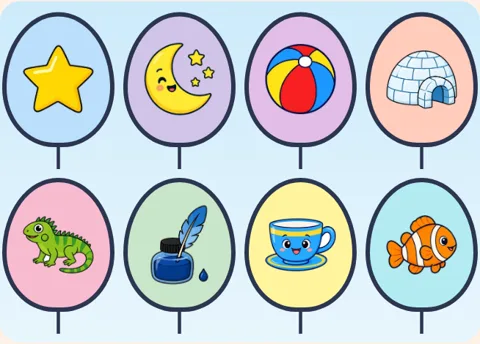
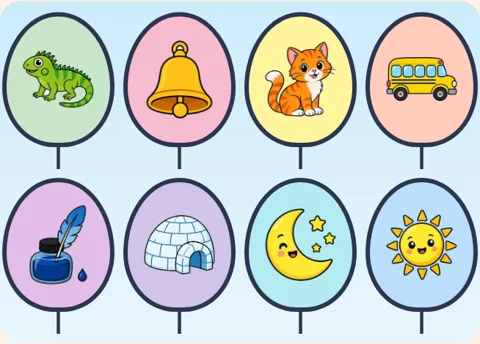
Games H/I/J: fixes from independent review (touch drag, bigger tap areas, no pen/fish, J without jeans, focus, opaque win card)
Claude-Session: https://claude.ai/code/session_01M3FAoMBg53TjgTeL4oEFnR

diff --git a/play/jam-jar-memory/index.html b/play/jam-jar-memory/index.html
@@ -4,7 +4,7 @@
   <meta charset="UTF-8">
   <meta name="viewport" content="width=device-width, initial-scale=1">
   <title>Jam Jar Memory: Letter J Game for Kids | VidyaPlay</title>
-  <meta name="description" content="Free online letter J memory game for LKG kids: turn the jar lids and match jam, jellyfish, jet and jeans. Works on phones, no sign-up. Print the worksheet too.">
+  <meta name="description" content="Free online letter J memory game for LKG kids: turn the jar lids and match jam, jellyfish and jet. Works on phones, no sign-up. Print the worksheet too.">
 
   <link rel="icon" href="../../favicon.ico" sizes="any">
   <link rel="icon" type="image/png" href="../../vidyaplay-icon-512.png">
@@ -19,7 +19,7 @@
   <meta property="og:type" content="website">
   <meta property="og:site_name" content="VidyaPlay">
   <meta property="og:title" content="Jam Jar Memory: Letter J Game for Kids | VidyaPlay">
-  <meta property="og:description" content="Free online letter J memory game for LKG kids: turn the jar lids and match jam, jellyfish, jet and jeans. Works on phones, no sign-up. Print the worksheet too.">
+  <meta property="og:description" content="Free online letter J memory game for LKG kids: turn the jar lids and match jam, jellyfish and jet. Works on phones, no sign-up. Print the worksheet too.">
   <meta property="og:url" content="https://vidyaplay.in/play/jam-jar-memory/">
   <meta property="og:image" content="https://vidyaplay.in/images/og-vidyaplay.jpg">
   <meta property="og:image:width" content="1200">
@@ -35,7 +35,7 @@
     .game-ask { margin: 0; font-size: 20px; font-weight: 800; color: var(--navy); text-align: left; line-height: 1.2; }
     .sound-btn { flex: none; width: 48px; height: 48px; border: 0; border-radius: 14px; background: #FFFFFF; font-size: 22px; cursor: pointer; }
     .meadow { display: block; width: 100%; height: auto; touch-action: manipulation; }
-    .grid { display: grid; grid-template-columns: repeat(4, 1fr); gap: 8px; padding: 8px 2px 8px; perspective: 700px; }
+    .grid { display: grid; grid-template-columns: repeat(3, 1fr); gap: 12px; padding: 8px 6px 8px; perspective: 700px; }
     .card-btn { position: relative; width: 100%; aspect-ratio: 3 / 4; border: 0; padding: 0; background: none; cursor: pointer; -webkit-tap-highlight-color: transparent; }
     .card-in { position: absolute; inset: 0; transition: transform 0.45s; transform-style: preserve-3d; }
     .card-btn.open .card-in, .card-btn.matched .card-in { transform: rotateY(180deg); }
@@ -43,10 +43,10 @@
       display: flex; flex-direction: column; align-items: center; justify-content: center; gap: 2px; }
     .face.back { background: #FB8C00; }
     .face.back::before { content: ""; position: absolute; top: -4px; left: 14%; right: 14%; height: 14px; border-radius: 6px 6px 0 0; background: #8A3B00; border: 3px solid #2C3550; border-bottom: 0; }
-    .face.back span { font-size: 40px; font-weight: 800; color: #FFFFFF; line-height: 1; }
+    .face.back span { font-size: 52px; font-weight: 800; color: #FFFFFF; line-height: 1; }
     .face.front { background: #FFFFFF; transform: rotateY(180deg); }
     .face.front img { width: 74%; height: 58%; object-fit: contain; }
-    .face.front b { font-size: 15px; color: var(--navy); }
+    .face.front b { font-size: 17px; color: var(--navy); }
     .card-btn.matched .face.front { background: #DFF5DC; border-color: #2E9B4F; }
     .card-btn:focus-visible .face { border-color: var(--blue); }
     .card-btn.matched { pointer-events: none; }
@@ -145,12 +145,12 @@
       <div class="grid" id="grid"></div>
       <div class="score">
         <div class="basket" id="basket" aria-hidden="true"></div>
-        <p class="score-text" id="score" aria-live="polite">0 of 4 pairs</p>
+        <p class="score-text" id="score" aria-live="polite">0 of 3 pairs</p>
       </div>
       <div class="win" id="win" hidden>
         <div class="win-icons" aria-hidden="true">🍓🎉🍓</div>
         <p class="win-big">All pairs found!</p>
-        <p class="win-text">jam, jellyfish, jet, jeans: all start with j.</p>
+        <p class="win-text">jam, jellyfish, jet: all start with j.</p>
         <button class="button btn-play" id="again" type="button">Play again</button>
       </div>
     </section>
@@ -175,7 +175,7 @@
 
   <script>
   (function () {
-    var WORDS = ["jam", "jellyfish", "jet", "jeans"];
+    var WORDS = ["jam", "jellyfish", "jet"];
     var grid = document.getElementById("grid"), basket = document.getElementById("basket"), scoreText = document.getElementById("score"), win = document.getElementById("win");
     var open = [], matched = 0, lock = false;
 
@@ -254,7 +254,7 @@
       WORDS.forEach(function () { basket.appendChild(document.createElement("span")); });
       win.hidden = true; update();
     }
-    document.getElementById("again").addEventListener("click", newRound);
+    document.getElementById("again").addEventListener("click", function () { newRound(); grid.firstChild.focus(); });
     newRound();
   })();
   </script>

diff --git a/play/catch-the-i-words/index.html b/play/catch-the-i-words/index.html
@@ -43,7 +43,8 @@
     .balloon img { width: 68%; height: 62%; object-fit: contain; pointer-events: none; }
     .balloon .string { position: absolute; left: 50%; bottom: 0; width: 3px; height: 14%; background: #2C3550; transform: translateX(-50%); }
     .balloon:focus-visible .body { border-color: var(--blue); border-width: 6px; }
-    .balloon.nope { animation: wiggle 0.45s ease-in-out; }
+    .balloon.nope { animation: wiggle 0.45s ease-in-out, bob 3s ease-in-out infinite; }
+    .heard { margin: 6px 0 0; min-height: 30px; font-size: 24px; font-weight: 800; color: var(--navy); }
     .balloon.popped { animation: poof 0.5s ease-out forwards; pointer-events: none; }
     @keyframes bob { 0%, 100% { transform: translateY(0); } 50% { transform: translateY(-6px); } }
     @keyframes wiggle { 0%, 100% { transform: rotate(0); } 20% { transform: rotate(-9deg); } 40% { transform: rotate(8deg); } 60% { transform: rotate(-5deg); } 80% { transform: rotate(3deg); } }
@@ -140,6 +141,7 @@
         <button class="sound-btn" id="sound" type="button" aria-pressed="true" aria-label="Sound on">🔊</button>
       </div>
       <div class="grid" id="grid"></div>
+      <p class="heard" id="heard" aria-hidden="true">&nbsp;</p>
       <div class="score">
         <div class="basket" id="basket" aria-hidden="true"></div>
         <p class="score-text" id="score" aria-live="polite">0 of 3 found</p>
@@ -173,10 +175,10 @@
   <script>
   (function () {
     var TARGETS = [["igloo", "igloo"], ["iguana", "iguana"], ["ink", "ink"]];
-    var OTHERS = [["ball", "ball"], ["cat", "cat"], ["dog", "dog"], ["hat", "hat"], ["cup", "cup"], ["pen", "pen"], ["bus", "bus"], ["fish", "fish"], ["star", "star"], ["cow", "cow"], ["moon", "moon"]];
+    var OTHERS = [["ball", "ball"], ["cat", "cat"], ["dog", "dog"], ["hat", "hat"], ["cup", "cup"], ["bus", "bus"], ["sun", "sun"], ["bell", "bell"], ["star", "star"], ["cow", "cow"], ["moon", "moon"]];
     var COLOURS = ["#F8BBD0", "#BBDEFB", "#FFF59D", "#E1BEE7", "#B2EBF2", "#FFCCBC", "#C8E6C9", "#D1C4E9"];
     var grid = document.getElementById("grid"), basket = document.getElementById("basket"), scoreText = document.getElementById("score"), win = document.getElementById("win");
-    var found = 0;
+    var found = 0, heard = document.getElementById("heard");
 
     var soundBtn = document.getElementById("sound"), soundOn = true, audio = null;
     function tone(freq, endFreq, start, length, volume) {
@@ -233,15 +235,15 @@
         b.querySelector("img").setAttribute("src", p.f + ".webp");
         b.addEventListener("click", function () {
           if (b.classList.contains("popped")) return;
-          say(p.w);
-          if (p.hit) { b.classList.add("popped"); found++; play("pop"); update(); }
+          say(p.w); heard.textContent = p.w;
+          if (p.hit) { b.classList.add("popped"); b.disabled = true; b.setAttribute("aria-hidden", "true"); found++; play("pop"); update(); }
           else { b.classList.remove("nope"); void b.offsetWidth; b.classList.add("nope"); }
         });
         grid.appendChild(b);
       });
       basket.innerHTML = "";
       TARGETS.forEach(function () { basket.appendChild(document.createElement("span")); });
-      found = 0; win.hidden = true; update();
+      found = 0; heard.innerHTML = "&nbsp;"; win.hidden = true; update();
     }
     document.getElementById("again").addEventListener("click", newRound);
     newRound();

diff --git a/play/build-the-house/index.html b/play/build-the-house/index.html
@@ -35,7 +35,7 @@
     .game-ask { margin: 0; font-size: 20px; font-weight: 800; color: var(--navy); text-align: left; line-height: 1.2; }
     .sound-btn { flex: none; width: 48px; height: 48px; border: 0; border-radius: 14px; background: #FFFFFF; font-size: 22px; cursor: pointer; }
     .meadow { display: block; width: 100%; height: auto; touch-action: manipulation; }
-    .house { display: block; width: 100%; height: auto; touch-action: manipulation; user-select: none; -webkit-user-select: none; }
+    .house { display: block; width: 100%; height: auto; max-height: 78vh; touch-action: none; user-select: none; -webkit-user-select: none; }
     .slot * { fill: rgba(255, 255, 255, 0.45); stroke: #9AA3B2; stroke-width: 3; stroke-dasharray: 8 7; }
     .slot text, .slot line, .slot circle[r="4.5"] { display: none; }
     
@@ -51,6 +51,7 @@
       25% { transform: translate(calc(var(--x) - 7px), var(--y)) scale(var(--s)); }
       75% { transform: translate(calc(var(--x) + 7px), var(--y)) scale(var(--s)); } }
     .tray-bg { fill: #FFFFFF; }
+    .win { background: #FFFFFF !important; }
 
     .score { display: flex; align-items: center; justify-content: center; flex-wrap: wrap; gap: 6px 10px; margin-top: 4px; }
     .basket { display: flex; gap: 4px; }
@@ -305,7 +306,9 @@
       def.draw(it.slot);
       var g = el("g", { "class": "piece", tabindex: 0, role: "button", "aria-label": "Drag the " + def.label + " to the house" }, piecesBox);
       def.draw(g);
-      el("rect", { "class": "hit", x: def.box[0] - 8, y: def.box[1] - 8, width: def.box[2] + 16, height: def.box[3] + 16, rx: 10 }, g);
+      var ts = Math.min(1, 78 / def.box[2], 62 / def.box[3]);                       // tray size: keep the touch area at least 56 units wide and high
+      var hw = Math.max(def.box[2] + 16, 56 / ts), hh = Math.max(def.box[3] + 16, 56 / ts);
+      el("rect", { "class": "hit", x: it.cx - hw / 2, y: it.cy - hh / 2, width: hw, height: hh, rx: 10 }, g);
       it.g = g;
       items.push(it);
       attach(it);
@@ -335,7 +338,7 @@
         var wasMoved = down.moved; down = null;
         g.classList.remove("drag");
         var target = cancelled ? null : (wasMoved ? freeSlot(it, it.x, it.y + 14, 70) : freeSlot(it, it.cx, it.cy, 1));  // a simple tap puts it in its place
-        if (target) { lock(it, target); return; }
+        if (target) { lock(it, target); focusNext(); return; }
         var home = TRAY[it.tray];
         setPos(it, home[0], home[1], trayScale(it));
         g.classList.remove("nope"); void g.getBoundingClientRect(); g.classList.add("nope");
@@ -345,11 +348,15 @@
       g.addEventListener("keydown", function (e) {
         if ((e.key === "Enter" || e.key === " ") && !it.placed) {
           e.preventDefault();
-          var t = freeSlot(it, it.cx, it.cy, 1); if (t) lock(it, t);
+          var t = freeSlot(it, it.cx, it.cy, 1); if (t) { lock(it, t); focusNext(); }
         }
       });
     }
 
+    function focusNext() {
+      var n = piecesBox.querySelector(".piece:not(.placed)");
+      if (n && document.activeElement === document.body) n.focus();
+    }
     function shuffle(list) {
       for (var i = list.length - 1; i > 0; i--) {
         var j = Math.floor(Math.random() * (i + 1)); var t = list[i]; list[i] = list[j]; list[j] = t;

diff --git a/play/index.html b/play/index.html
@@ -165,10 +165,10 @@
         <a class="button play-btn" href="catch-the-i-words/">Play</a>
       </li>
       <li class="sheet-card">
-        <a href="jam-jar-memory/"><img src="../images/games/jam-jar-memory.webp" width="480" height="327" loading="lazy" alt="Jam Jar Memory game: match the pairs"></a>
+        <a href="jam-jar-memory/"><img src="../images/games/jam-jar-memory.webp" width="480" height="424" loading="lazy" alt="Jam Jar Memory game: match the pairs"></a>
         <span class="sheet-code">Letter J · Ages 3.5 to 5</span>
         <h3 class="sheet-title">Jam Jar Memory</h3>
-        <p class="sheet-text">Turn the jar lids and match jam, jellyfish, jet and jeans.</p>
+        <p class="sheet-text">Turn the jar lids and match jam, jellyfish and jet.</p>
         <a class="button play-btn" href="jam-jar-memory/">Play</a>
       </li>
     </ul>
